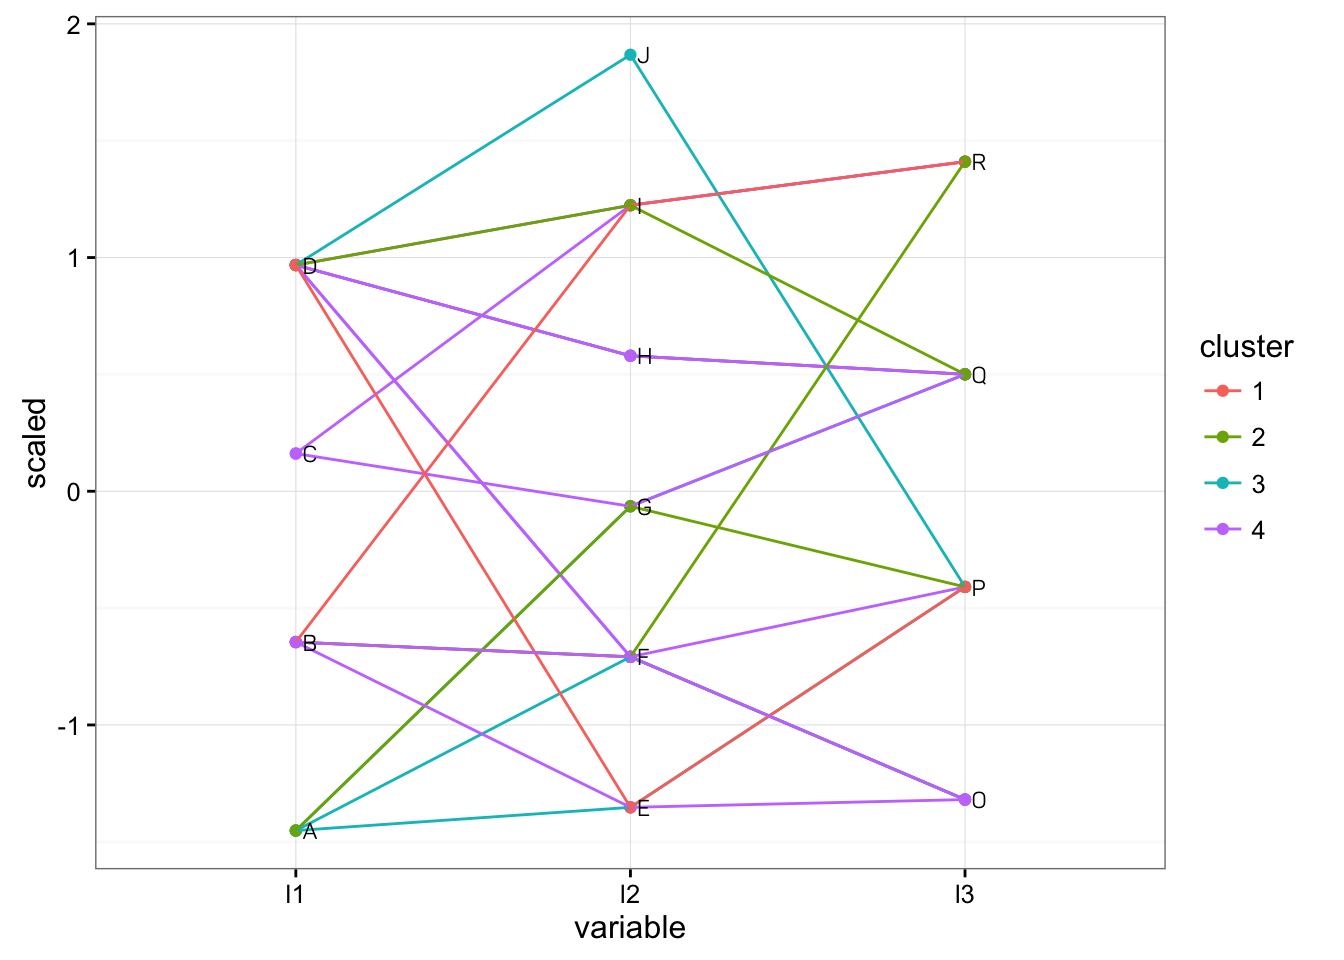
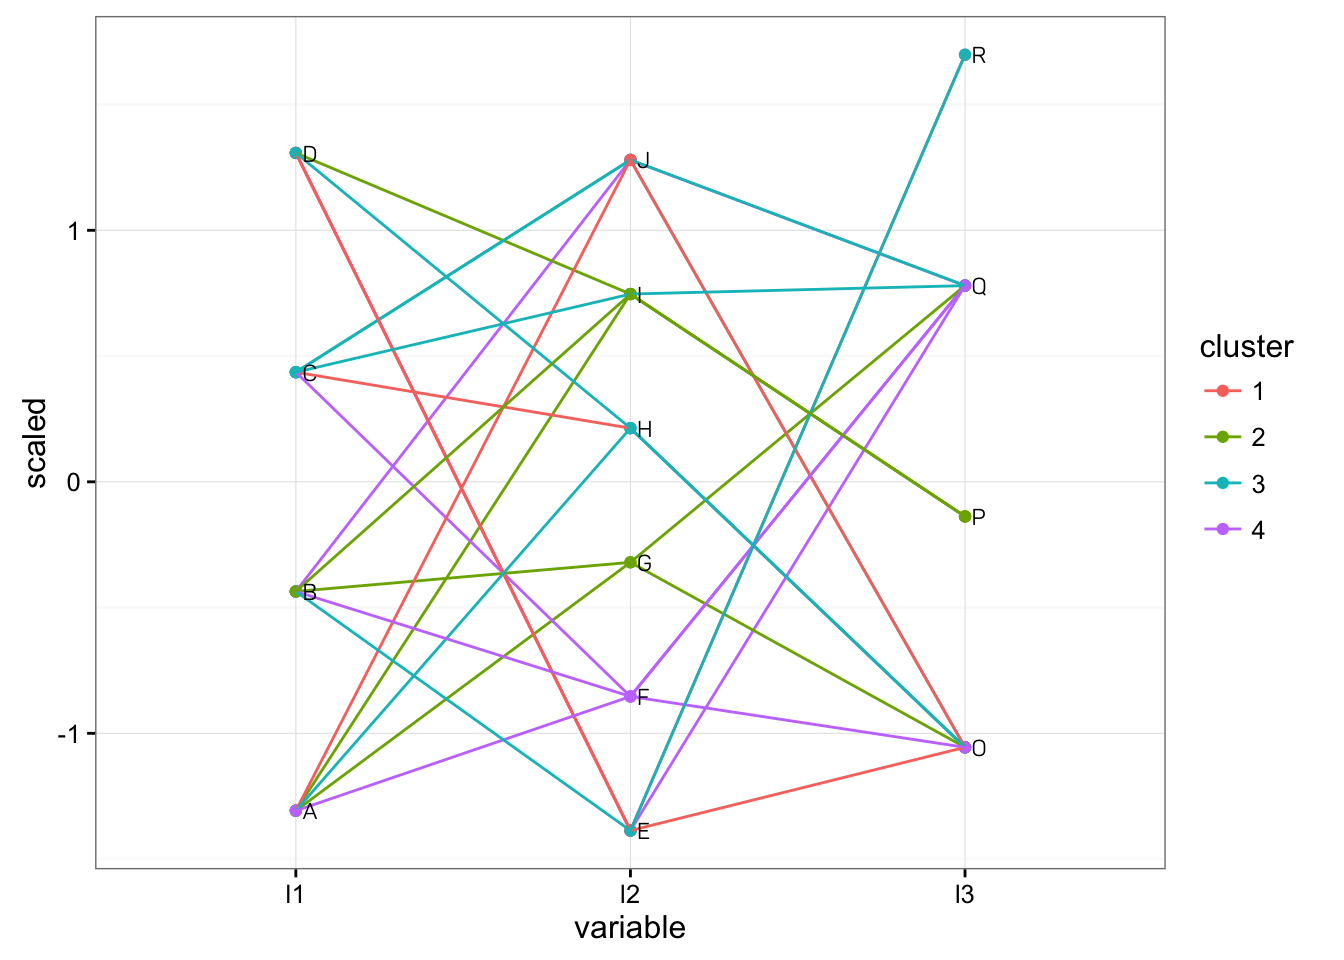
beautify the table

diff --git a/index.html b/index.html
@@ -201,20 +201,23 @@ $(document).ready(function () {
 
 <div id="parallel-plot" class="section level1">
 <h1>Parallel Plot</h1>
-<p>Load the necessary library</p>
-<pre class="r"><code>suppressMessages(require(ggplot2))
-suppressMessages(require(dplyr));suppressMessages(require(stringr))
-suppressMessages(require(knitr))
-suppressMessages(require(data.table))</code></pre>
+<p>The required library for this plot are <strong>ggplot2</strong>, <strong>dplyr</strong>, <strong>knitr</strong>, <strong>stringr</strong> and <strong>data.table</strong>.</p>
 <p>Populate some dummy datasets.</p>
 <pre class="r"><code>data = data.frame(
         &#39;l1&#39; = as.factor(sample(LETTERS[1:4], 20, T)), 
         &#39;l2&#39; = as.factor(sample(LETTERS[5:10], 20, T)),
         &#39;l3&#39; = as.factor(sample(LETTERS[15:18], 20, T)), 
         &#39;cluster&#39; = sample(1:4, 20, T))
+
+# a helper function to convert an object name into literal string
+var_to_name &lt;- function(x){
+  deparse(substitute(x))
+}
+
 # print out the data frame
-kable(data)</code></pre>
+kable(data, caption = var_to_name(data))</code></pre>
 <table>
+<caption>data</caption>
 <thead>
 <tr class="header">
 <th align="left">l1</th>
@@ -225,28 +228,16 @@ kable(data)</code></pre>
 </thead>
 <tbody>
 <tr class="odd">
-<td align="left">C</td>
-<td align="left">I</td>
-<td align="left">P</td>
-<td align="right">4</td>
-</tr>
-<tr class="even">
-<td align="left">A</td>
+<td align="left">D</td>
 <td align="left">E</td>
-<td align="left">R</td>
-<td align="right">4</td>
-</tr>
-<tr class="odd">
-<td align="left">C</td>
-<td align="left">G</td>
 <td align="left">Q</td>
 <td align="right">4</td>
 </tr>
 <tr class="even">
-<td align="left">B</td>
-<td align="left">I</td>
-<td align="left">P</td>
-<td align="right">4</td>
+<td align="left">C</td>
+<td align="left">J</td>
+<td align="left">O</td>
+<td align="right">3</td>
 </tr>
 <tr class="odd">
 <td align="left">A</td>
@@ -255,16 +246,40 @@ kable(data)</code></pre>
 <td align="right">2</td>
 </tr>
 <tr class="even">
-<td align="left">D</td>
+<td align="left">A</td>
 <td align="left">G</td>
-<td align="left">P</td>
+<td align="left">O</td>
+<td align="right">2</td>
+</tr>
+<tr class="odd">
+<td align="left">B</td>
+<td align="left">J</td>
+<td align="left">Q</td>
+<td align="right">4</td>
+</tr>
+<tr class="even">
+<td align="left">C</td>
+<td align="left">H</td>
+<td align="left">O</td>
 <td align="right">1</td>
 </tr>
 <tr class="odd">
-<td align="left">A</td>
-<td align="left">H</td>
+<td align="left">C</td>
+<td align="left">F</td>
 <td align="left">Q</td>
-<td align="right">1</td>
+<td align="right">4</td>
+</tr>
+<tr class="even">
+<td align="left">D</td>
+<td align="left">I</td>
+<td align="left">P</td>
+<td align="right">2</td>
+</tr>
+<tr class="odd">
+<td align="left">B</td>
+<td align="left">G</td>
+<td align="left">Q</td>
+<td align="right">2</td>
 </tr>
 <tr class="even">
 <td align="left">D</td>
@@ -273,75 +288,63 @@ kable(data)</code></pre>
 <td align="right">1</td>
 </tr>
 <tr class="odd">
-<td align="left">D</td>
-<td align="left">H</td>
-<td align="left">P</td>
+<td align="left">C</td>
+<td align="left">J</td>
+<td align="left">Q</td>
 <td align="right">3</td>
 </tr>
 <tr class="even">
-<td align="left">B</td>
+<td align="left">D</td>
+<td align="left">E</td>
+<td align="left">R</td>
+<td align="right">1</td>
+</tr>
+<tr class="odd">
+<td align="left">A</td>
+<td align="left">J</td>
+<td align="left">O</td>
+<td align="right">1</td>
+</tr>
+<tr class="even">
+<td align="left">D</td>
+<td align="left">H</td>
+<td align="left">O</td>
+<td align="right">3</td>
+</tr>
+<tr class="odd">
+<td align="left">A</td>
+<td align="left">H</td>
+<td align="left">O</td>
+<td align="right">3</td>
+</tr>
+<tr class="even">
+<td align="left">C</td>
+<td align="left">I</td>
+<td align="left">Q</td>
+<td align="right">3</td>
+</tr>
+<tr class="odd">
+<td align="left">A</td>
 <td align="left">F</td>
 <td align="left">Q</td>
 <td align="right">4</td>
 </tr>
-<tr class="odd">
-<td align="left">D</td>
-<td align="left">H</td>
-<td align="left">Q</td>
-<td align="right">4</td>
-</tr>
 <tr class="even">
-<td align="left">C</td>
-<td align="left">J</td>
+<td align="left">B</td>
+<td align="left">F</td>
 <td align="left">O</td>
 <td align="right">4</td>
 </tr>
 <tr class="odd">
-<td align="left">A</td>
-<td align="left">J</td>
-<td align="left">P</td>
-<td align="right">4</td>
+<td align="left">B</td>
+<td align="left">E</td>
+<td align="left">R</td>
+<td align="right">3</td>
 </tr>
 <tr class="even">
 <td align="left">B</td>
-<td align="left">J</td>
-<td align="left">Q</td>
-<td align="right">4</td>
-</tr>
-<tr class="odd">
-<td align="left">A</td>
 <td align="left">I</td>
 <td align="left">P</td>
-<td align="right">3</td>
-</tr>
-<tr class="even">
-<td align="left">C</td>
-<td align="left">G</td>
-<td align="left">P</td>
-<td align="right">1</td>
-</tr>
-<tr class="odd">
-<td align="left">A</td>
-<td align="left">H</td>
-<td align="left">R</td>
-<td align="right">3</td>
-</tr>
-<tr class="even">
-<td align="left">D</td>
-<td align="left">F</td>
-<td align="left">R</td>
-<td align="right">4</td>
-</tr>
-<tr class="odd">
-<td align="left">B</td>
-<td align="left">H</td>
-<td align="left">P</td>
-<td align="right">1</td>
-</tr>
-<tr class="even">
-<td align="left">B</td>
-<td align="left">J</td>
-<td align="left">O</td>
 <td align="right">2</td>
 </tr>
 </tbody>
@@ -362,19 +365,76 @@ data.melt$value &lt;- as.factor(data.melt$label) %&gt;% as.numeric
 
 dt &lt;- data.table(data.melt)
 
-# scale the value group by its column name and use a new column &#39;scaled&#39; to store it
+kable(head(dt), caption = var_to_name(dt))</code></pre>
+<table>
+<caption>dt</caption>
+<thead>
+<tr class="header">
+<th align="right">id</th>
+<th align="right">cluster</th>
+<th align="left">variable</th>
+<th align="left">label</th>
+<th align="right">value</th>
+</tr>
+</thead>
+<tbody>
+<tr class="odd">
+<td align="right">1</td>
+<td align="right">4</td>
+<td align="left">l1</td>
+<td align="left">D</td>
+<td align="right">4</td>
+</tr>
+<tr class="even">
+<td align="right">2</td>
+<td align="right">3</td>
+<td align="left">l1</td>
+<td align="left">C</td>
+<td align="right">3</td>
+</tr>
+<tr class="odd">
+<td align="right">3</td>
+<td align="right">2</td>
+<td align="left">l1</td>
+<td align="left">A</td>
+<td align="right">1</td>
+</tr>
+<tr class="even">
+<td align="right">4</td>
+<td align="right">2</td>
+<td align="left">l1</td>
+<td align="left">A</td>
+<td align="right">1</td>
+</tr>
+<tr class="odd">
+<td align="right">5</td>
+<td align="right">4</td>
+<td align="left">l1</td>
+<td align="left">B</td>
+<td align="right">2</td>
+</tr>
+<tr class="even">
+<td align="right">6</td>
+<td align="right">1</td>
+<td align="left">l1</td>
+<td align="left">C</td>
+<td align="right">3</td>
+</tr>
+</tbody>
+</table>
+<pre class="r"><code># scale the value group by its column name and use a new column &#39;scaled&#39; to store it
 dt[, scaled:=scale(value), variable]
 
 # create the dataset for text labelling
-data.label &lt;- dt[, .(variable, label, scaled)] %&gt;% distinct
-
-g = ggplot(dt, aes(x = variable, y = scaled)) + geom_point(
+data.label &lt;- dt[, .(variable, label, scaled)] %&gt;% distinct</code></pre>
+<p>Start to plot the graph.</p>
+<pre class="r"><code>g = ggplot(dt, aes(x = variable, y = scaled)) + geom_point(
       aes(color = as.factor(cluster))) + geom_line(aes(group = id, color = as.factor(cluster)))
 
 # vectorize str_wrap function so that we can wrap the text in label column if its too long
-wraptxt &lt;- Vectorize(str_wrap, vectorize.args = &#39;string&#39;)</code></pre>
-<p>Start to plot the graph.</p>
-<pre class="r"><code># plot the label
+wraptxt &lt;- Vectorize(str_wrap, vectorize.args = &#39;string&#39;)
+
+# plot the label
 g1 = g + geom_text(data = data.label, aes(x = variable, y = scaled, label = wraptxt(label, width = 10)), 
                                           family = &#39;Panton&#39;, hjust = &#39;left&#39;, nudge_x = .02, size = 3)
 
